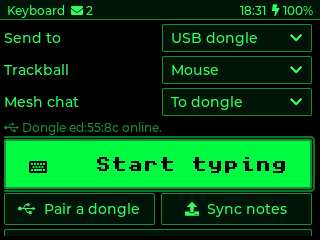
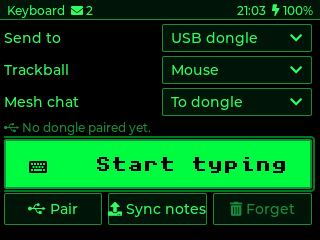
Keyboard: Forget joins the Pair and Sync row so nothing sits below the fold (#164)
* Keyboard: Forget joins the Pair and Sync row so nothing sits below the fold

* Keyboard screenshot for the one-row buttons

diff --git a/src/apps/keyboard.cpp b/src/apps/keyboard.cpp
@@ -170,6 +170,7 @@ static void show(lv_obj_t *view)
             uint32_t m = lv_obj_get_child_cnt(o);
             for (uint32_t j = 0; j < m; j++) {
                 lv_obj_t *c = lv_obj_get_child(o, j);
+                if (lv_obj_has_flag(c, LV_OBJ_FLAG_HIDDEN)) continue;
                 if (lv_obj_check_type(c, &lv_dropdown_class) || lv_obj_check_type(c, &lv_btn_class)) lv_group_add_obj(g, c);
             }
         }
@@ -392,13 +393,13 @@ static void build_setup(lv_obj_t *parent)
     lv_obj_set_size(s_dongle_row, LV_PCT(100), LV_SIZE_CONTENT);
     lv_obj_set_flex_flow(s_dongle_row, LV_FLEX_FLOW_ROW);
     lv_obj_set_style_pad_column(s_dongle_row, 6, 0);
-    s_pair_btn = button(s_dongle_row, LV_SYMBOL_USB "  Pair a dongle", [](lv_event_t *) { enter_pair(); });
-    s_sync_btn = button(s_dongle_row, LV_SYMBOL_UPLOAD "  Sync notes", [](lv_event_t *) {
+    s_pair_btn = button(s_dongle_row, LV_SYMBOL_USB " Pair", [](lv_event_t *) { enter_pair(); });
+    s_sync_btn = button(s_dongle_row, LV_SYMBOL_UPLOAD " Sync notes", [](lv_event_t *) {
         if (!companion::sync_notes()) ui_toast("Dongle is not online");
     });
-    for (lv_obj_t *b : {s_pair_btn, s_sync_btn}) { lv_obj_set_size(b, 0, 32); lv_obj_set_flex_grow(b, 1); }
-
-    s_forget_btn = button(s_setup, LV_SYMBOL_TRASH "  Forget", [](lv_event_t *) {
+    // Forget shares the row so nothing sits below the fold: a focused button scrolling into
+    // view from nowhere looked like something had happened (#163)
+    s_forget_btn = button(s_dongle_row, LV_SYMBOL_TRASH " Forget", [](lv_event_t *) {
         uint32_t now = millis();
         if (!s_forget_at || now - s_forget_at > FORGET_MS) { s_forget_at = now; update_status(); return; }
         s_forget_at = 0;
@@ -406,7 +407,7 @@ static void build_setup(lv_obj_t *parent)
         else { dongle::forget(); ui_toast("Dongle forgotten"); }
         update_status();
     });
-    lv_obj_set_height(s_forget_btn, 32);
+    for (lv_obj_t *b : {s_pair_btn, s_sync_btn, s_forget_btn}) { lv_obj_set_size(b, 0, 32); lv_obj_set_flex_grow(b, 1); }
     lv_obj_set_style_text_color(s_forget_btn, T_DIM, 0);
 }
 
@@ -538,12 +539,19 @@ static void update_status()
                  : "offline: is it plugged in?", companion::status());
     }
     lv_label_set_text(s_status, buf);
-    if (s_target == T_DONGLE) lv_obj_clear_flag(s_dongle_row, LV_OBJ_FLAG_HIDDEN);
-    else lv_obj_add_flag(s_dongle_row, LV_OBJ_FLAG_HIDDEN);
+    for (lv_obj_t *b : {s_pair_btn, s_sync_btn}) {
+        if (s_target == T_DONGLE) lv_obj_clear_flag(b, LV_OBJ_FLAG_HIDDEN);
+        else lv_obj_add_flag(b, LV_OBJ_FLAG_HIDDEN);
+    }
     if (s_forget_at && millis() - s_forget_at > FORGET_MS) s_forget_at = 0;
+    if (s_forget_at) {
+        snprintf(buf, sizeof(buf), LV_SYMBOL_WARNING " Press Forget again to forget %s.",
+                 s_target == T_BLUETOOTH ? "the Bluetooth hosts" : "this dongle");
+        lv_label_set_text(s_status, buf);
+        lv_obj_set_style_text_color(s_status, T_WARN, 0);
+    } else lv_obj_set_style_text_color(s_status, T_DIM, 0);
     lv_label_set_text(lv_obj_get_child(s_forget_btn, 0),
-                      s_forget_at ? LV_SYMBOL_WARNING "  Press again to forget"
-                      : s_target == T_BLUETOOTH ? LV_SYMBOL_TRASH "  Forget Bluetooth hosts" : LV_SYMBOL_TRASH "  Forget this dongle");
+                      s_forget_at ? LV_SYMBOL_WARNING " Sure?" : s_target == T_BLUETOOTH ? LV_SYMBOL_TRASH " Forget hosts" : LV_SYMBOL_TRASH " Forget");
     lv_obj_set_style_text_color(s_forget_btn, s_forget_at ? T_WARN : T_DIM, 0);
     lv_label_set_text_fmt(s_live_status, "%s %s   %s",
                           s_target == T_BLUETOOTH ? LV_SYMBOL_BLUETOOTH : LV_SYMBOL_USB,
@@ -563,9 +571,9 @@ static void tick()
     static uint32_t last_status = 0, last_batt = 0;
     if (millis() - last_status > 500) {
         last_status = millis();
-        bool pair_was_hidden = lv_obj_has_flag(s_dongle_row, LV_OBJ_FLAG_HIDDEN);
+        bool pair_was_hidden = lv_obj_has_flag(s_pair_btn, LV_OBJ_FLAG_HIDDEN);
         update_status();
-        if (!s_in_live && !s_in_pair && pair_was_hidden != lv_obj_has_flag(s_dongle_row, LV_OBJ_FLAG_HIDDEN)) show(s_setup);
+        if (!s_in_live && !s_in_pair && pair_was_hidden != lv_obj_has_flag(s_pair_btn, LV_OBJ_FLAG_HIDDEN)) show(s_setup);
         if (s_in_pair) refresh_pair_list();
     }
     if (millis() - last_batt > 60000) {
